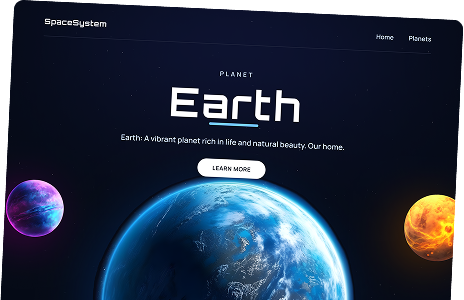
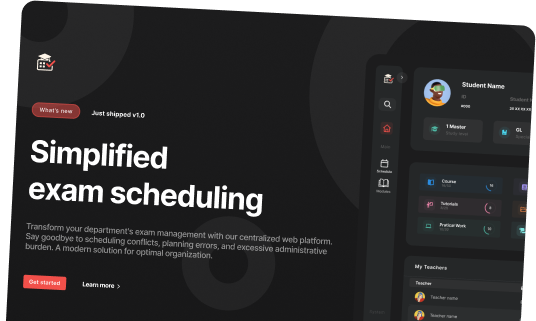
feat: enhance Projects component with state management and styling updates

diff --git a/app/projects/page.tsx b/app/projects/page.tsx
@@ -5,13 +5,15 @@ import Image from 'next/image'
 
 import gsap from "gsap";
 import { ScrollTrigger } from "gsap/ScrollTrigger";
-import { useEffect, useRef } from 'react';
+import { useEffect, useRef, useState } from 'react';
 import Skill from '@/components/container/Skill';
 import { copy } from '@/constants/logo';
 import Project from '@/components/container/Project';
 gsap.registerPlugin(ScrollTrigger);
 
 const Projects = () => {
+
+  const [isMore, setIsMore] = useState(false);
 
   const doc = useRef(null);
   const sec1 = useRef(null);
@@ -161,7 +163,7 @@ const Projects = () => {
             <Image src={arbty} alt='section' className='absolute z-1 bottom-5 right-5'/>
             <Image src={mockup} alt='section' className='absolute z-0'/>
             <div className="absolute lg:bottom-10 lg:left-10 bottom-5 left-5">
-              <h3 className='text-[0.9rem] lg:text-lg flex flex-col font-bold'>
+              <h3 className='text-[0.9rem] lg:text-lg flex flex-col font-bold text-white'>
                 <span>I prioritize client</span>
                 <span>collaboration, fostering</span>
                 <span>open communication</span>
@@ -169,17 +171,17 @@ const Projects = () => {
             </div>
           </div>
           <div className='flex flex-wrap flex-row lg:grid lg:grid-cols-1 lg:grid-rows-2 gap-4'>
-            <div className='border-2 border-gray-500/10 rounded-lg flex-1 min-w-[200px] min-h-[114px] relative overflow-hidden' ref={ct2}>
+            <div className='dark:bg-transparent bg-gray-800 border-2 border-gray-500/10 rounded-lg flex-1 min-w-[200px] min-h-[114px] relative overflow-hidden' ref={ct2}>
               <Image src={pagination} alt='Word Map' className='absolute z-0 bottom-0'/>
               <div className="absolute bg-secondary rounded-full w-30 h-30 -top-5 -left-1/12 rotate-45 blur-2xl opacity-20 z-0"></div>
               <div className="absolute top-5 left-5 lg:left-10">
-                <h3 className='text-sm lg:text-lg flex flex-col font-bold'>
+                <h3 className='text-sm lg:text-lg flex flex-col font-bold text-white'>
                   <span>I’m very flexible with time</span>
                   <span>zone communications</span>
                 </h3>
               </div>
             </div>
-            <div className='border-2 border-gray-500/10 rounded-lg bg-gray-500/10 flex-1 min-w-[200px] min-h-[114px] lg:max-h-fit max-h-[120px] overflow-hidden flex flex-row gap-4 relative pr-4' ref={ct3}>
+            <div className='border-2 bg-gray-700/50 border-gray-500/10 rounded-lg dark:bg-gray-500/10 flex-1 min-w-[200px] min-h-[114px] lg:max-h-fit max-h-[120px] overflow-hidden flex flex-row gap-4 relative pr-4' ref={ct3}>
               <div className="absolute bg-black rounded-full w-30 h-30 top-0 right-1/12 rotate-45 blur-2xl opacity-50 z-0"></div>
               <div className="w-[32%]">
               </div>
@@ -212,21 +214,21 @@ const Projects = () => {
         </div>
         <div className='flex flex-col lg:grid lg:grid-cols-[0.5fr_1fr] lg:grid-rows-1 gap-4 w-full'>
           <div className='flex flex-wrap flex-row lg:grid lg:grid-cols-1 lg:grid-rows-2 gap-4'>
-            <div className="border-2 border-gray-300/10 rounded-lg bg-gray-600/10 flex-1 min-w-[200px] min-h-[114px] relative overflow-hidden" ref={ct4}>
+            <div className="border-2 border-gray-300/10 rounded-lg bg-gray-800 dark:bg-gray-600/10 flex-1 min-w-[200px] min-h-[114px] relative overflow-hidden" ref={ct4}>
               <Image src={grid} alt='section' className='absolute z-0'/>
               <Image src={section} alt='section' className='absolute z-10 lg:right-5 lg:-bottom-1/4 -bottom-3/4 right-0'/>
               <div className="absolute bg-primary rounded-full w-30 h-30 -top-5 right-1/12 rotate-45 blur-2xl opacity-20 z-0"></div>
               <div className="absolute top-5 left-5 lg:left-10">
-                <h3 className='text-sm lg:text-lg flex flex-col font-bold'>
+                <h3 className='text-sm lg:text-lg flex flex-col font-bold text-white'>
                   <span>Tech enthusiast with a</span>
                   <span>passion for development.</span>
                 </h3>
               </div>
             </div>
-            <div className="border-2 border-gray-500/10 rounded-lg flex-1 min-w-[200px] min-h-[114px] relative bg-linear-to-tr from-primary/20 to-black/15 overflow-hidden" ref={ct5}>
+            <div className="border-2 border-gray-500/10 rounded-lg flex-1 min-w-[200px] min-h-[114px] relative bg-linear-to-tr from-gray-800 to-primary dark:from-primary/20 dark:to-black/15 overflow-hidden" ref={ct5}>
               <Image src={grid} alt='section' className='absolute z-0'/>
               <div className="absolute bg-primary rounded-full w-30 h-30 top-1/2 left-1/12 rotate-45 blur-2xl opacity-50 z-10"></div>
-              <div className="flex flex-col absolute top-2/12 lg:top-3/12 z-10 w-full text-center">
+              <div className="flex flex-col absolute top-2/12 lg:top-3/12 z-10 w-full text-center text-white">
                 <h3 className='text-[0.8rem] lg:text-lg font-bold flex flex-col'>
                   <span>Do you want to start</span>
                   <span>a project together?</span>
@@ -238,12 +240,12 @@ const Projects = () => {
               </div>
             </div>
           </div> 
-          <div className="border-2 border-gray-500/10 rounded-lg min-w-[260px] min-h-[260px] relative overflow-hidden" ref={ct6}>
+          <div className="bg-gray-900 dark:bg-transparent border-2 border-gray-500/10 rounded-lg min-w-[260px] min-h-[260px] relative overflow-hidden" ref={ct6}>
             <Image src={grid} alt='section' className='absolute z-0 -top-10'/>
             <Image src={vscode} alt='snapshot' className='absolute z-0 opacity-40 w-150 -right-1/4 top-2/12'/>
             <div className="flex flex-col absolute left-4 top-1/2 -translate-y-1/2 z-10">
-              <p className='text-[0.6rem] lg:text-md opacity-50'>The Inside Scoop</p>
-              <h3 className='text-lg lg:text-3xl font-bold flex flex-col'>
+              <p className='text-[0.6rem] lg:text-md opacity-50 text-white'>The Inside Scoop</p>
+              <h3 className='text-lg lg:text-3xl font-bold flex flex-col text-white'>
                 <span>Focused on writing</span>
                 <span>clean, well-structured</span>
                 <span>code.</span>
@@ -256,30 +258,14 @@ const Projects = () => {
         <h1 className='text-3xl font-black text-center w-full mb-8'>Recent projects <span className='text-primary'>showcase</span></h1>
         <div className="w-full flex flex-row justify-center flex-wrap gap-8 py-8">
           <Project 
-            title='3D Solar System Planets to Explore'
-            description='Explore the wonders of our solar system with this captivating 3D simulation of the planets using Three.js.'
+            title='Unitime - Exam Management System'
+            description='A full-stack Laravel + React application for managing exams, students, teachers, and scheduling.'
             imageSrc={image1}
-            stack={["next", "tailwind", "typescript", "threejs"]}
-          />
-          <Project 
-            title='Yoom - Video Conferencing App'
-            description='Simplify your video conferencing experience with Yoom. Seamlessly connect with colleagues and friends.'
-            imageSrc={image2}
-            stack={["next", "tailwind", "typescript"]}
-          />
-          <Project 
-            title='AI Image SaaS - Canva Application'
-            description='A REAL Software-as-a-Service app with AI features and a payments and credits system using the latest tech stack.'
-            imageSrc={image3}
-            stack={["react", "tailwind", "typescript", "threejs"]}
-          />
-          <Project 
-            title='Animated Apple Iphone 3D Website'
-            description='Recreated the Apple iPhone 15 Pro website, combining GSAP animations and Three.js 3D effects.'
-            imageSrc={image4}
-            stack={["next", "tailwind", "typescript", "threejs", "gsap"]}
+            stack={["react", "tailwind", "laravel", "gsap"]}
+            link='https://exam-managment-project.vercel.app/'
           />
         </div>
+        <h2 className={`${isMore?"opacity-100 cursor-pointer":"opacity-20 cursor-default"} text-[0.8rem] text-primary w-full text-center hover:opacity-20`}>Show More</h2>
       </div>
     </div>
   )

diff --git a/components/container/Project.tsx b/components/container/Project.tsx
@@ -40,28 +40,29 @@ interface projectPrps{
     imageSrc: string | StaticImport;
     className?: string;
     stack?: StackKey[];
+    onClick?: ()=>{}
 }
 
 const Project = forwardRef<HTMLDivElement, projectPrps>(
-  ({ title= "", description="", link="", imageSrc="", stack=[], className=""}, ref) => {
+  ({ title= "", description="", link="", imageSrc="", stack=[], className="", onClick = ()=>{}}, ref) => {
     return (
-        <div className={`${className} p-4 flex flex-col gap-4 border-2 border-gray-500/10 rounded-3xl bg-gray-500/10 w-3/12 min-w-[260px]`} ref={ref}>
-            <div className="h-[230px] overflow-hidden rounded-lg bg-linear-to-tr from-secondary/20 to-black/15 relative">
+        <div className={`${className} p-4 flex flex-col gap-4 border-2 border-gray-500/10 rounded-3xl dark:bg-gray-500/10 bg-gray-900 w-3/12 min-w-[300px]`} ref={ref}>
+            <div className="lg:h-[200px] h-[150px] overflow-hidden rounded-lg bg-linear-to-tr from-secondary/20 to-gray-900/50 dark:from-secondary/20 dark:to-black/15 relative">
                 <Image src={imageSrc} alt="Project Image" className="w-4/5 absolute bottom-0 left-1/2 -translate-x-1/2"/>
             </div>
             <div className="flex flex-col w-full gap-2">
-                <h3 className="font-bold text-lg">{title}</h3>
-                <p className="text-[0.7rem] opacity-60">{description}</p>
+                <h3 className="font-bold text-lg cursor-pointer hover:opacity-70 text-white" onClick={onClick}>{title}</h3>
+                <p className="text-[0.7rem] opacity-60 text-white">{description}</p>
             </div>
             <div className="flex flex-row items-center justify-between">
                 <div className="flex flex-row -space-x-2.5">
                     {stack.map((icn, index) => (
-                        <div key={index} className="rounded-full flex items-center justify-center border-2 border-gray-500/10 w-8 h-8 bg-[#0a0a0a]">
+                        <div key={index} className="rounded-full flex items-center justify-center border-2 border-gray-500/10 w-8 h-8 bg-gray-800 dark:bg-[#0a0a0a]">
                             <Image key={index} src={prgIcons[icn]} alt="Icon" className="w-1/2" />
                         </div>
                     ))}
                 </div>
-                <h4 className="text-secondary text-sm font-light hover:opacity-80 cursor-pointer">Check Live Site &#8599;</h4>
+                <a className="text-secondary text-sm font-light hover:opacity-80 cursor-pointer" href={link} target="_blank">Check Live Site &#8599;</a>
             </div>
         </div>
     );

diff --git a/components/container/Skill.tsx b/components/container/Skill.tsx
@@ -6,7 +6,7 @@ interface skillPrps {
 
 const Skill = ({skill = ""}: skillPrps) => {
   return (
-    <div className='rounded-xl py-5 flex items-center justify-center bg-gray-800'>
+    <div className='rounded-xl py-5 flex items-center justify-center dark:bg-gray-800 bg-gray-200'>
         <h3 className='font-bold text-[0.6rem] lg:text-[0.75rem]'>{skill}</h3>
     </div>
   )
